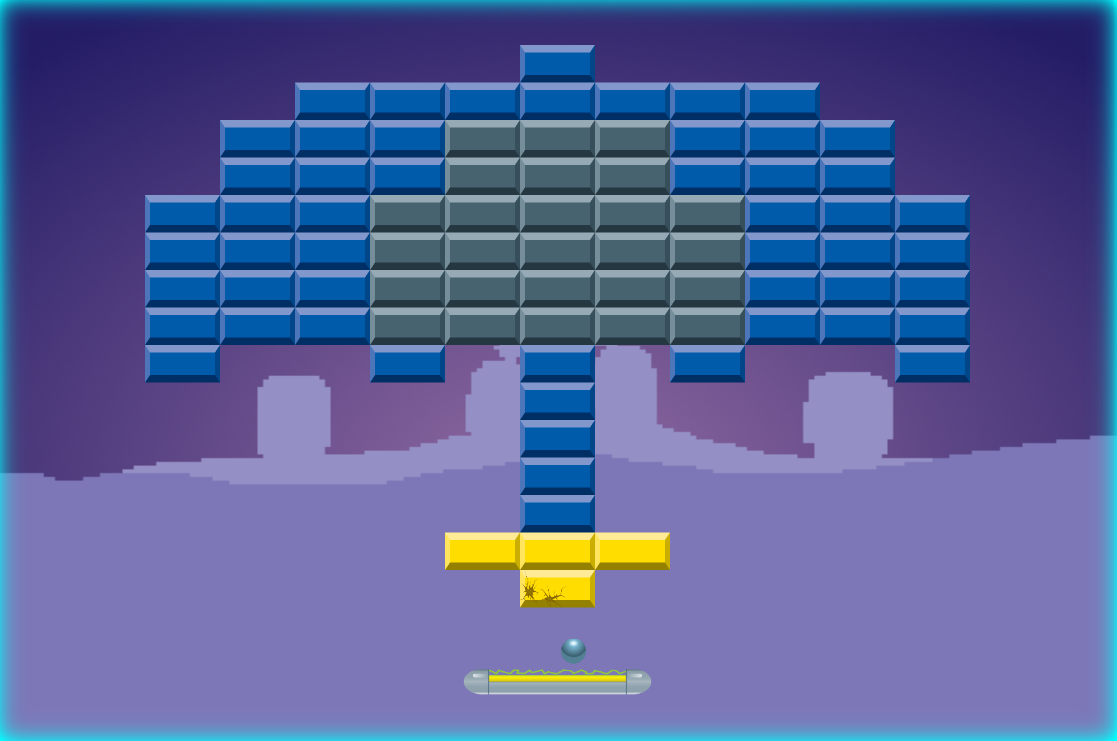
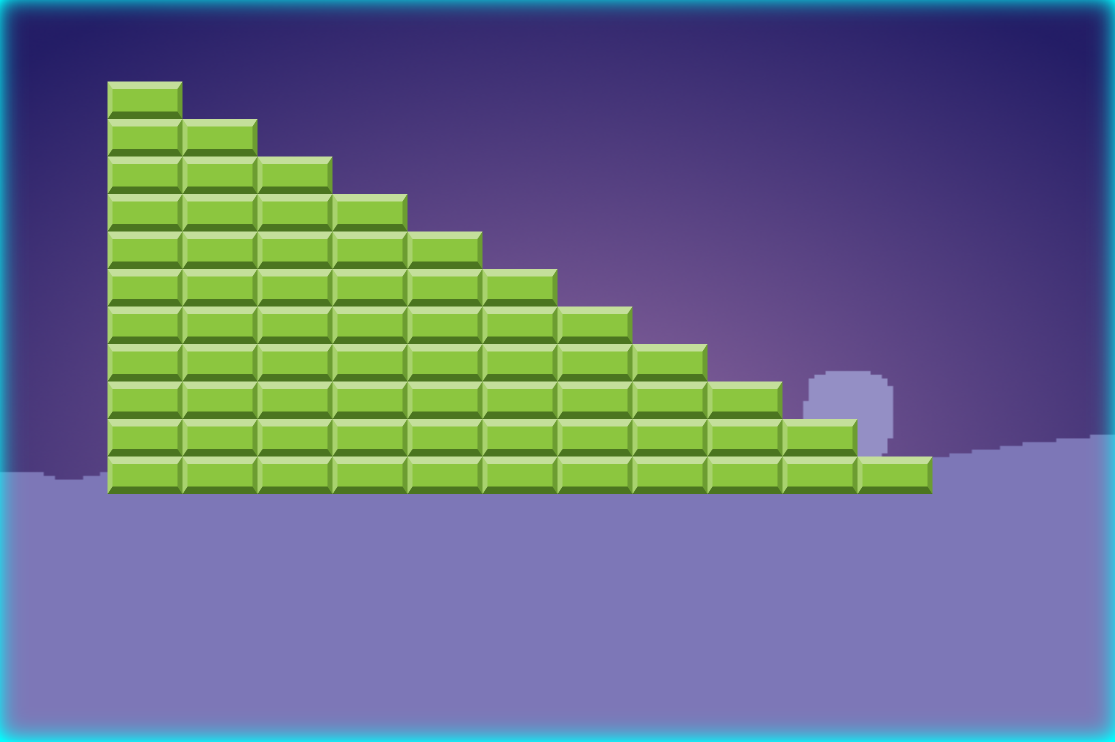
fix: image

diff --git a/src/main/java/com/demo/controller/menuController.java b/src/main/java/com/demo/controller/menuController.java
@@ -27,6 +27,7 @@ public class menuController {
             "/com/demo/view/image/levels/level5.png",
             "/com/demo/view/image/levels/level6.png",
             "/com/demo/view/image/levels/level7.png",
+            "/com/demo/view/image/levels/level8.png"
     };
 
 

diff --git a/src/main/java/com/demo/model/LevelManager.java b/src/main/java/com/demo/model/LevelManager.java
@@ -164,6 +164,7 @@ public class LevelManager {
             case 5 -> LEVEL5;
             case 6 -> LEVEL6;
             case 7 -> LEVEL7;
+            case 8 -> LEVEL8;
             default -> LEVEL1;
         };
     }
